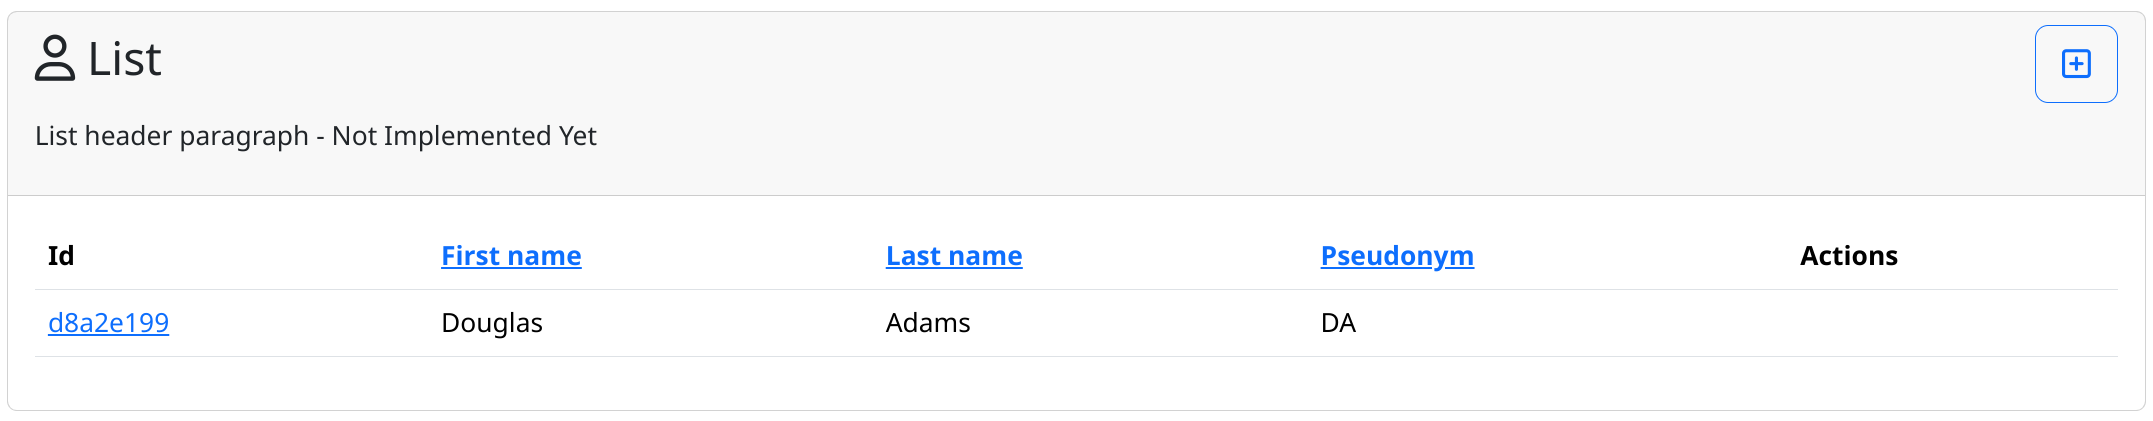
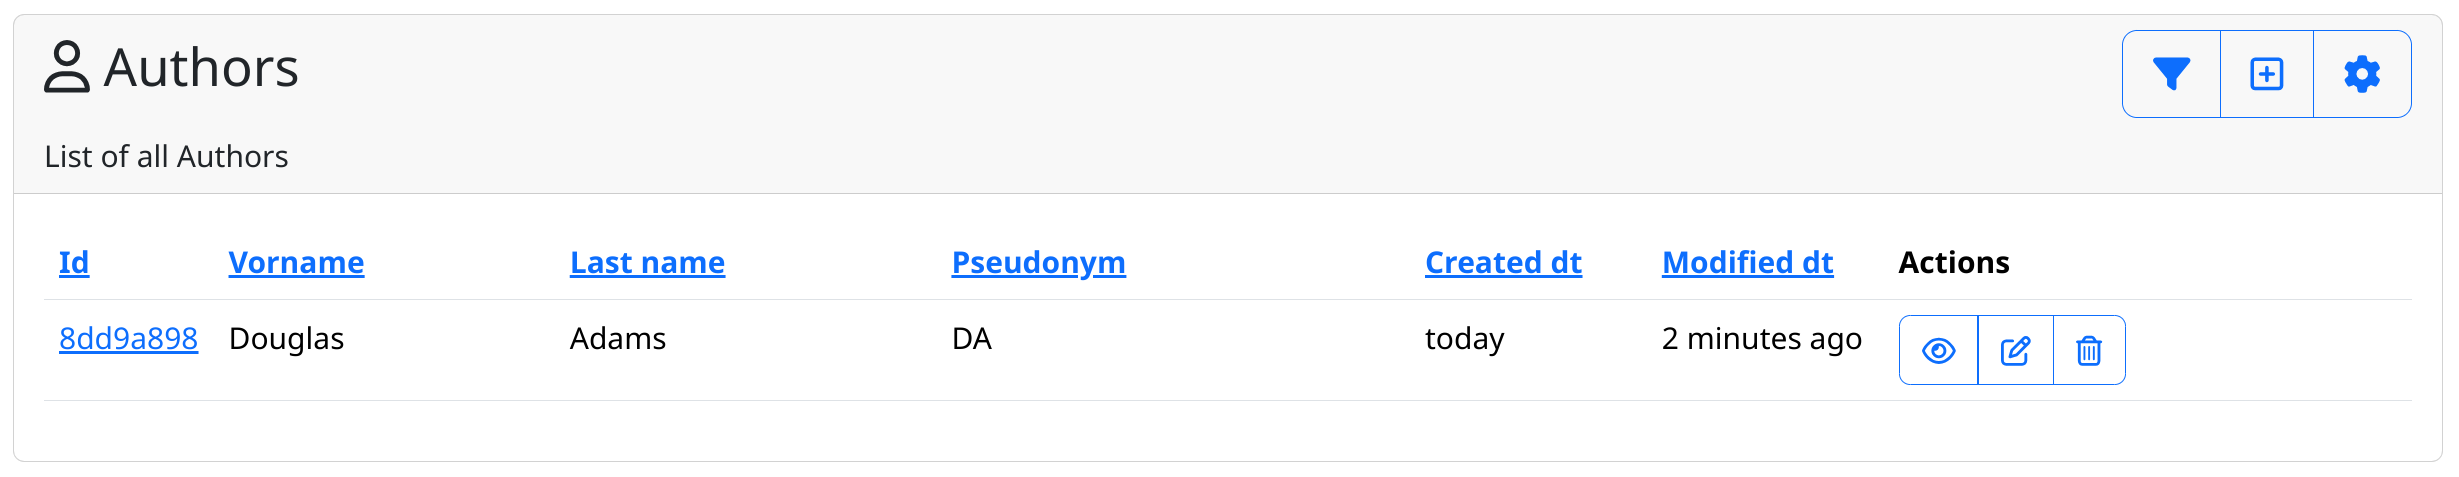
update tutorial

diff --git a/docs/getting_started/tutorial.md b/docs/getting_started/tutorial.md
@@ -3,22 +3,27 @@
 This tutorial will show you the features of Django CRUD Views.
 
 > **Note:** Basic Django knowledge such as creating a Python environment with a Django project and a Django app is
-> required.
+> required. See the [Django Tutorial](https://docs.djangoproject.com/en/3.2/intro/tutorial01/) for more information.
 
-Create a Django Model, i.e. for an Author:
+Create a Django model, i.e. for an author:
 
 ```python
-class Author(OrderedModel):
+from django.db import models
+
+class Author(models.Model):
     id = models.UUIDField(primary_key=True, default=uuid.uuid4, editable=False)
     first_name = models.CharField(max_length=100)
     last_name = models.CharField(max_length=100)
     pseudonym = models.CharField(max_length=100, blank=True, null=True)
+    created_dt = models.DateTimeField(auto_now_add=True)
+    modified_dt = models.DateTimeField(auto_now=True)
 ```
 
 Next create a ViewSet:
 
 ```python
 from crud_views.lib.viewset import ViewSet, path_regs
+from .models import Author
 
 vs_author = ViewSet(
     model=Author,
@@ -51,16 +56,18 @@ Create a list view with a table based on [django-tables2](https://django-tables2
 from crud_views.lib.table import Table
 from crud_views.lib.views import ListViewTableMixin, ListViewPermissionRequired
 
-
 class AuthorTable(Table):
     id = UUIDLinkDetailColumn()
     first_name = tables.Column()
     last_name = tables.Column()
     pseudonym = tables.Column()
+    created_dt = NaturalDayColumn()
+    modified_dt = NaturalTimeColumn()
 
+    
 class AuthorListView(ListViewTableMixin, ListViewPermissionRequired):
     model = Author
-    table_class = AuthorTable
+    table_class = AuthorTable   # set the table class to use
     vs = vs_author  # this will link your list view to the ViewSet
 ```
 
@@ -72,6 +79,17 @@ class AuthorListView(ListViewTableMixin, ListViewPermissionRequired):
 >
 > So everything is is as close to the Django classes as possible.
 
-Add a record via Django Admin and open your Browser to see the result:
+Now create a model:
 
-![author.png](assets/author.png)
+```bash
+alex@inifinity:~/django-crud-views/examples/bootstrap5$ task shell
+>>> from app.models import Author
+>>> Author.objects.create(first_name="Douglas", last_name="Adams", pseudonym="DS")
+<Author: Douglas Adams>
+```
+
+Then go to `http://localhost:8000/author/` and you will see the list view of the authors.
+
+
+
+![list](assets/list.png)

diff --git a/docs/getting_started/tutorial2.md b/docs/getting_started/tutorial2.md
@@ -1,0 +1,41 @@
+# Tutorial - Part 2
+
+Now let's add some other views.
+
+
+## Create view
+
+```python
+from crispy_forms.layout import Row
+from crud_views.lib.views import CreateViewPermissionRequired, MessageMixin
+from crud_views.lib.crispy import Column4, CrispyModelForm, CrispyModelViewMixin, CrispyDeleteForm
+
+class AuthorCreateForm(CrispyModelForm):
+
+    class Meta:
+        model = Author
+        fields = ["first_name", "last_name", "pseudonym"]
+
+    def get_layout_fields(self):
+        return Row(Column4("first_name"), Column4("last_name"), Column4("pseudonym"))
+
+    
+class AuthorCreateView(CrispyModelViewMixin, MessageMixin, CreateViewPermissionRequired):
+    model = Author
+    form_class = AuthorCreateForm
+    vs = vs_author
+```
+
+Now you see the create button on the list view.
+
+![list-create.png](assets/list-create.png)
+
+Click the create button and you will see the create view.
+
+![create.png](assets/create.png)
+
+After you have created an author you will see the list view again.
+
+![list-create-author.png](assets/list-create-author.png)
+
+> **Note:** You see the message `Created Author Alexander Jacob` because the `MessageMixin` is used.
